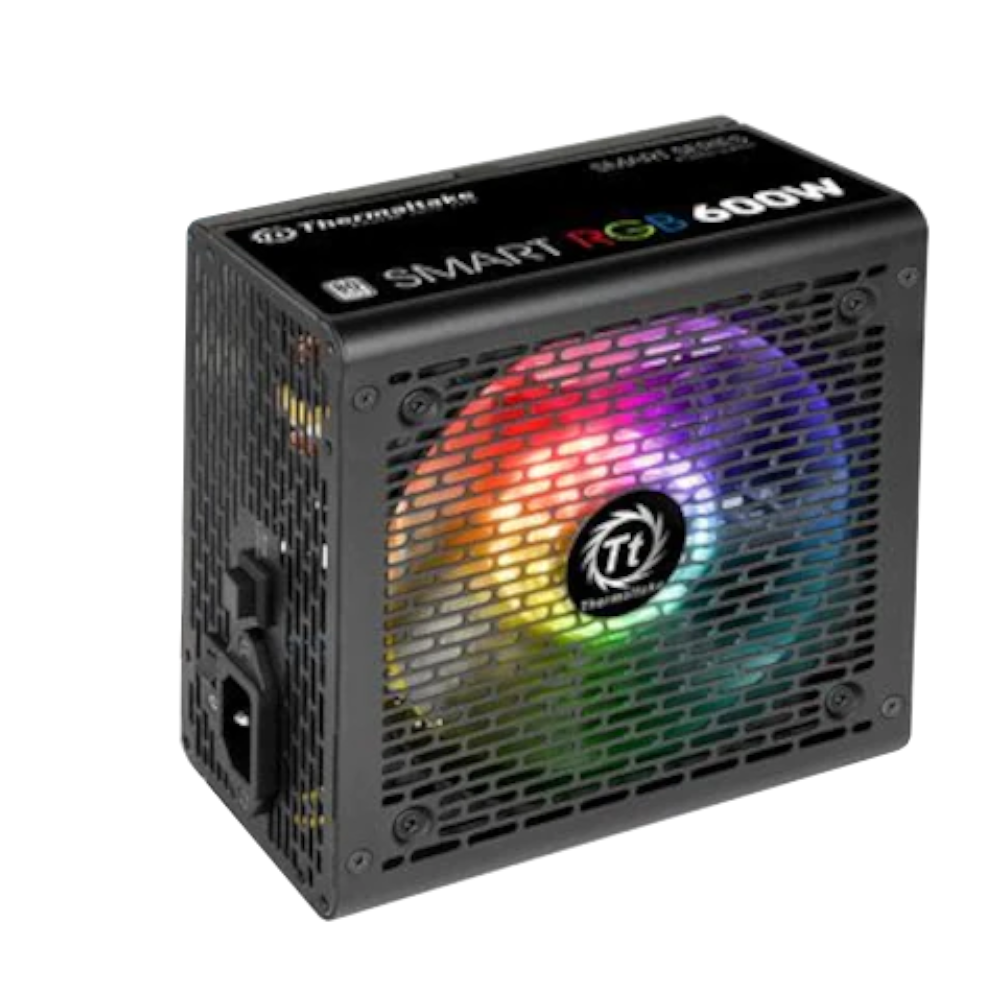
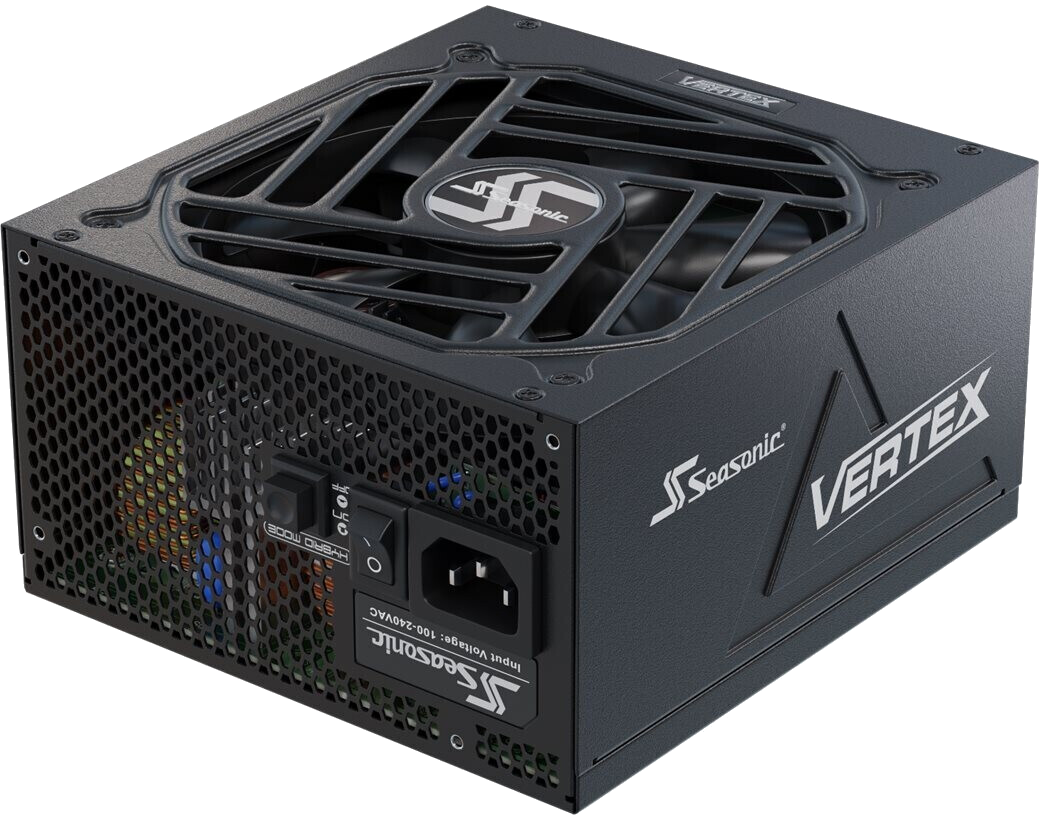
changing PSU

diff --git a/content/setup/setup.html b/content/setup/setup.html
@@ -177,8 +177,8 @@
 				<div id="mainboard" class="device flex">
 					<div class="devicename part">
 						<div class="noflex">
-							<h2>power source:</h2>
-							<h1>Thermaltake Smart RGB 600W</h1>
+							<h2>PSU:</h2>
+							<h1> Seasonic Vertex GX-750 750W</h1>
 						</div>
 					</div>
 					<div class="part">
